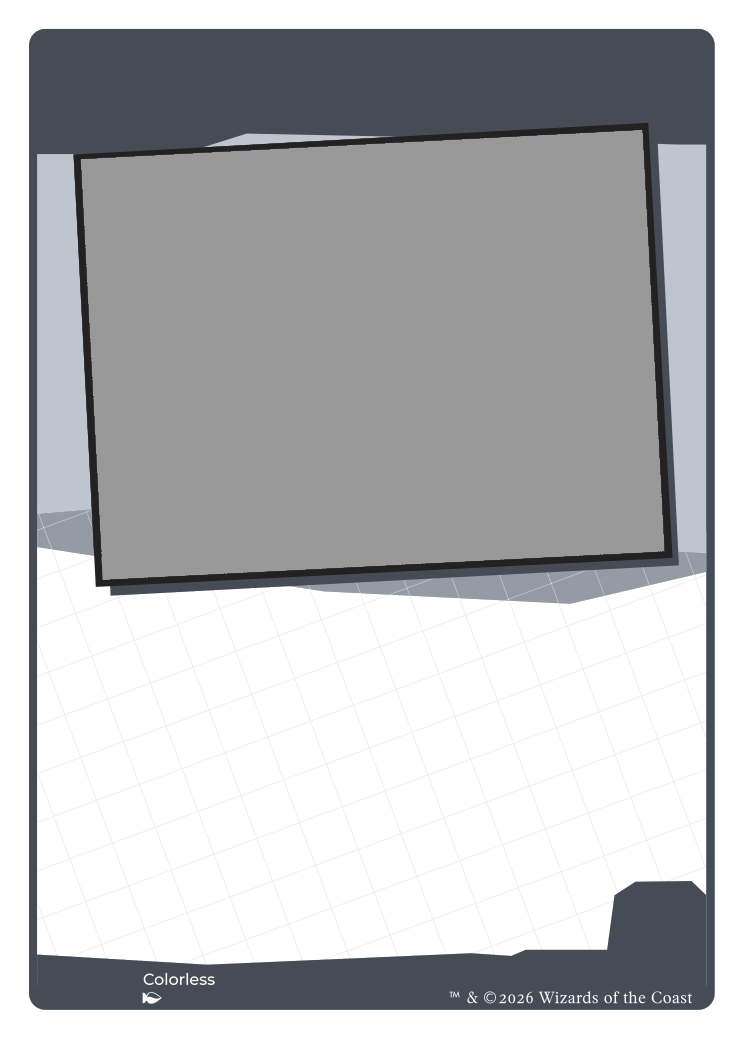
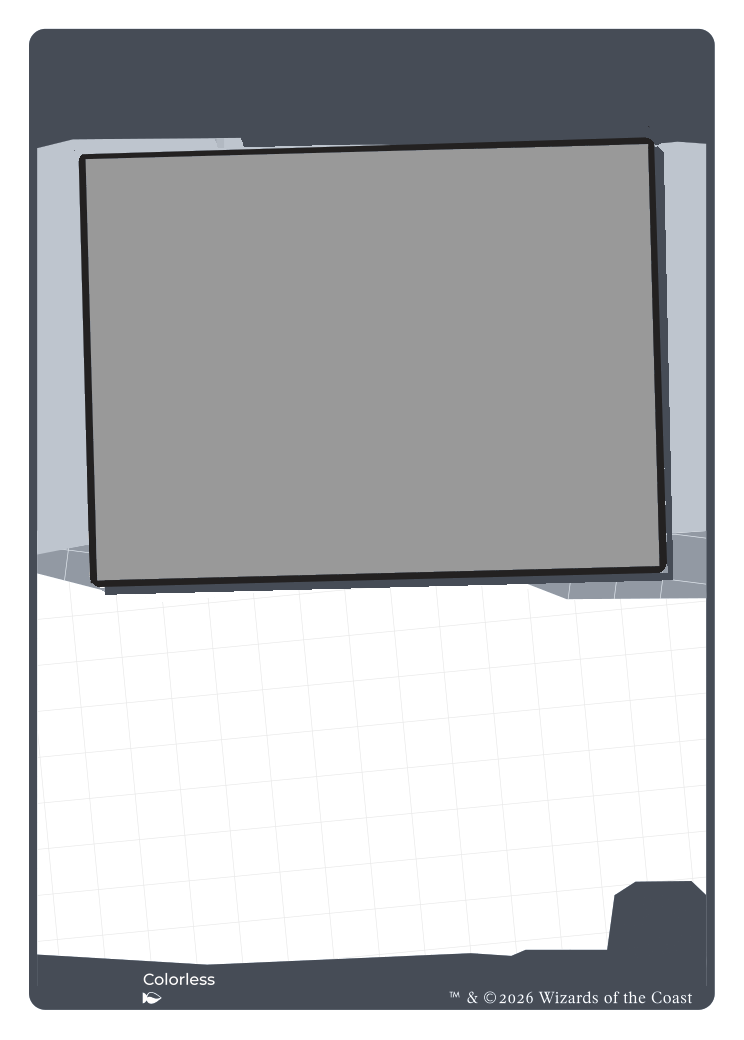
Colorless frame: mix parts of the green, red and blue frames
Instead of the white frame in gray, the colorless frame takes the art box with
its tilt and shadow from green, the shapes behind the art and the text box edge
from red, and the grid from blue, all recolored to the dark slate. The
colorless art box uses green's mask and position. The group noted that every
frame has its own tilt, shapes and grid.

Claude-Session: https://claude.ai/code/session_01AKUzD9vf33tyYiXxTkypoa

Changed region(s): [[0.0309, 0.3385, 0.9583, 0.5846], [0.0618, 0.0923, 0.8965, 0.3077]]

diff --git a/mse/tools/make_colorless_frame.py b/mse/tools/make_colorless_frame.py
@@ -1,63 +1,150 @@
 #!/usr/bin/env python3
-"""Make the colorless frame (sliced/base-c.png) from the white frame.
+"""Make the colorless frame (sliced/base-c.png) by mixing parts of the five colored frames.
 
-The white frame is a warm mid gray. The colorless frame is the same artwork recolored to a darker slate
-(frame color RGB 70, 76, 86), so it sits between white (a light gray) and black (a near-black purple) and does
-not read as either, with the "White" word replaced by "Colorless". Because the geometry is the white frame's,
-colorless cards use white's art opening and art mask.
+Every colored frame has its own art tilt, its own shapes behind the art, and its own grid in the text box, so the
+colorless frame is not just the white frame in gray. It borrows one part from each of three frames and recolors
+them to a dark slate (frame color RGB 70, 76, 86, between the light gray of white and the near-black of black):
+
+    art box, its border and drop shadow:   green   (a strong tilt)
+    shapes behind the art, text box edge:  red     (the pale wings and diagonal pieces)
+    grid in the text box:                  blue
+
+Change ART_FROM, SHAPES_FROM and GRID_FROM below to try another mix. The art box of the colorless frame is the one
+of the frame it takes the art box from, so build_assets.py uses that frame's art mask and position for colorless cards.
+The word "White" is replaced by "Colorless", set in Montserrat as a stand-in for the Gilroy of the original words.
 
     python3 mse/tools/make_colorless_frame.py
 
-Needs Pillow and the Montserrat font (a stand-in for Gilroy, which the original words use). The result is a source
-image like the other slices, so build_assets.py picks it up with the rest.
+Needs Pillow, numpy, scipy and the Montserrat font. The result is a source image like the other slices.
 """
 import os
 
+import numpy as np
 from PIL import Image, ImageDraw, ImageFont
+from scipy import ndimage
 
 HERE = os.path.dirname(os.path.abspath(__file__))
 ROOT = os.path.dirname(os.path.dirname(HERE))
 SLICED = os.path.join(ROOT, "sliced")
 
-SLATE = (70, 76, 86)              # replaces the frame gray (149, 146, 135)
-FRAME = (149, 146, 135)
-LIGHT = (190, 197, 206)           # replaces the light cream (227, 228, 212) that shows around the art
-CREAM = (227, 228, 212)
-BORDER = (35, 33, 33)             # the dark line around the art, kept as it is
-WORD_BOX = (141, 971, 196, 987)   # where the word "White" is, clear of the brush icon below it
-WORD_LEFT, WORD_BASELINE, CAP_HEIGHT = 143, 985, 11   # the "W" starts at x 143, its letters end at row 984
+ART_FROM, SHAPES_FROM, GRID_FROM = "g", "r", "u"
+
+# per frame: the frame color, the darker tint and the main tint of the shapes behind the art
+PALETTE = {
+    "w": ((149, 146, 135), (200, 199, 189), (227, 228, 212)),
+    "u": ((0, 143, 210), (131, 203, 213), (169, 223, 235)),
+    "b": ((19, 1, 38), (168, 169, 172), (194, 196, 198)),
+    "r": ((205, 60, 54), (232, 170, 164), (240, 202, 197)),
+    "g": ((1, 146, 69), (160, 210, 189), (186, 220, 205)),
+}
+WHITE, BORDER, GRAY = (255, 255, 255), (35, 33, 33), (153, 153, 153)
+SLATE, SLATE_DARK_TINT, SLATE_TINT = (70, 76, 86), (146, 153, 163), (190, 197, 206)
+TARGET = [SLATE, SLATE_DARK_TINT, SLATE_TINT, WHITE]
+
+WORD_BOX = (141, 971, 196, 987)    # where the color word is, clear of the brush icon below it
+WORD_LEFT, WORD_BASELINE, CAP_HEIGHT = 143, 985, 11
 WORD_COLOR = (255, 253, 252)
 FONTS = ["/usr/share/fonts/truetype/montserrat/Montserrat-Medium.ttf",
          "/usr/share/fonts/truetype/montserrat/Montserrat-Regular.ttf"]
 
 
-def lum(p):
-    return 0.299 * p[0] + 0.587 * p[1] + 0.114 * p[2]
+def disk(r):
+    y, x = np.ogrid[-r:r + 1, -r:r + 1]
+    return (x * x + y * y) <= r * r
 
 
-def lerp(a, b, t):
-    return tuple(round(a[i] + (b[i] - a[i]) * t) for i in range(3))
+def load(c):
+    return np.asarray(Image.open(os.path.join(SLICED, "base-%s.png" % c)).convert("RGBA")).astype(float)
 
 
-def recolor(p):
-    """Warm gray pixels (the frame and its anti-aliased edges) become slate; neutral pixels are kept."""
-    if p[0] - p[2] < 3:
-        return p                       # white, the art placeholder gray, the border line, text: neutral
-    y = lum(p)
-    y_frame, y_cream = lum(FRAME), lum(CREAM)
-    if y <= y_frame:
-        return lerp(BORDER, SLATE, max(0.0, (y - lum(BORDER)) / (y_frame - lum(BORDER))))
-    if y <= y_cream:
-        return lerp(SLATE, LIGHT, (y - y_frame) / (y_cream - y_frame))
-    return lerp(LIGHT, (255, 255, 255), min(1.0, (y - y_cream) / (255 - y_cream)))
+def along(rgb, pts):
+    """For every pixel: where it falls along the polyline pts (0 to len-1) and how far it is from it."""
+    best = np.full(rgb.shape[:2], 1e9)
+    pos = np.zeros(rgb.shape[:2])
+    for i in range(len(pts) - 1):
+        a, b = np.array(pts[i], float), np.array(pts[i + 1], float)
+        d = b - a
+        t = np.clip(((rgb - a) @ d) / (d @ d), 0, 1)
+        dist = np.linalg.norm(rgb - (a + t[..., None] * d), axis=-1)
+        closer = dist < best
+        best = np.where(closer, dist, best)
+        pos = np.where(closer, i + t, pos)
+    return pos, best
+
+
+def point_at(pos, pts):
+    pts = np.array(pts, float)
+    i = np.clip(np.floor(pos).astype(int), 0, len(pts) - 2)
+    t = (pos - i)[..., None]
+    return pts[i] * (1 - t) + pts[i + 1] * t
+
+
+def recolor(c):
+    """The frame in slate: frame color, tints and their anti-aliased edges are mapped onto the slate tints.
+    The art placeholder gray, the border and white are kept."""
+    frame, dark, light = PALETTE[c]
+    rgb = load(c)[..., :3]
+    pos, dist = along(rgb, [frame, dark, light, WHITE])
+    out = rgb.copy()
+    keep = (rgb == GRAY).all(axis=-1)
+    m = (dist < 14) & ~keep
+    out[m] = point_at(pos, TARGET)[m]
+    # the anti-aliased edge of the dark border against the frame color and against each tint
+    done = m | keep
+    for src, dst in ((frame, SLATE), (dark, SLATE_DARK_TINT), (light, SLATE_TINT)):
+        pos2, dist2 = along(rgb, [BORDER, src])
+        m2 = (dist2 < 18) & ~done
+        out[m2] = point_at(pos2, [BORDER, dst])[m2]
+        done |= m2
+    return out, pos, dist
+
+
+def assembly(c):
+    """The art opening, its border and its drop shadow (the frame-colored sliver down and to the right)."""
+    rgb = load(c)[..., :3]
+    opening = ndimage.binary_opening((rgb == GRAY).all(axis=-1), structure=disk(2))
+    core = ndimage.binary_dilation(opening, structure=disk(8))
+    is_frame = np.abs(rgb - np.array(PALETTE[c][0])).sum(axis=-1) < 20
+    swept = np.zeros_like(core)
+    for k in range(1, 12):
+        swept |= np.roll(np.roll(core, k, 0), k, 1)
+    return core | (swept & is_frame)
+
+
+def mix():
+    art, art_pos, art_dist = recolor(ART_FROM)
+    shapes, shapes_pos, shapes_dist = recolor(SHAPES_FROM)
+    alpha = load(SHAPES_FROM)[..., 3]
+    h, w = alpha.shape
+    rows = np.arange(h)[:, None] * np.ones((1, w))
+    gone = ndimage.binary_dilation(assembly(SHAPES_FROM), structure=disk(3))
+    mine = assembly(ART_FROM)
+    # the shapes frame without its own art box: those pixels are filled from the nearest frame or tint pixel
+    background = (shapes_dist < 14) & (shapes_pos < 2.6) & ~gone
+    idx = ndimage.distance_transform_edt(~background, return_distances=False, return_indices=True)
+    out = shapes.copy()
+    out[gone] = shapes[idx[0], idx[1]][gone]
+    out[mine] = art[mine]                                # the art box of the other frame on top
+    # the grid: inside the white text box of the shapes frame, drawn as in the grid frame
+    grid = load(GRID_FROM)[..., :3]
+    base = load(SHAPES_FROM)[..., :3]
+    lum = lambda a: a @ np.array([.299, .587, .114])
+    inside = (lum(base) >= 205) & (np.abs(base[..., 0] - base[..., 2]) < 6) & (rows >= 520) & ~mine
+    light = (lum(grid) >= 205) & (np.abs(grid[..., 0] - grid[..., 2]) < 6)
+    out[inside & light] = grid[inside & light]
+    out[inside & ~light] = 255
+    # a few anti-aliased edge pixels of the other frames' colors are left: make them the neutral slate
+    odd = (out[..., 1] > out[..., 2] + 4) | (out[..., 0] > out[..., 2] + 4)
+    v = lum(out)
+    out[odd] = np.stack([v - 6, v, v + 6], axis=-1)[odd]
+    return Image.fromarray(np.dstack([out, alpha]).round().clip(0, 255).astype(np.uint8), "RGBA")
 
 
 def word_image(text):
     """The word as a white image with transparency, drawn at 8x and scaled down so the edges are smooth."""
     path = next(f for f in FONTS if os.path.exists(f))
     scale = 8
-    size = round(CAP_HEIGHT / 0.7)     # Montserrat's capital letters are 0.7 of the font size tall
-    font = ImageFont.truetype(path, size * scale)
+    font = ImageFont.truetype(path, round(CAP_HEIGHT / 0.7) * scale)   # capitals are 0.7 of the font size tall
     box = font.getbbox(text, anchor="ls")
     w, h = box[2] - box[0], -box[1] + font.getbbox("g", anchor="ls")[3]
     big = Image.new("L", (w + 8 * scale, h + 8 * scale), 0)
@@ -65,24 +152,18 @@ def word_image(text):
     small = big.resize((big.width // scale, big.height // scale), Image.LANCZOS)
     out = Image.new("RGBA", small.size, WORD_COLOR + (0,))
     out.putalpha(small)
-    return out, 4, -box[1] // scale + 4      # the image, and where the baseline's left end is inside it
+    return out, 4, -box[1] // scale + 4
 
 
 def main():
-    base = Image.open(os.path.join(SLICED, "base-w.png")).convert("RGBA")
-    px = base.load()
-    for y in range(base.height):
-        for x in range(base.width):
-            r, g, b, a = px[x, y]
-            if a:
-                px[x, y] = recolor((r, g, b)) + (a,)
-    x0, y0, x1, y1 = WORD_BOX
-    ImageDraw.Draw(base).rectangle((x0, y0, x1, y1), fill=SLATE + (255,))
+    base = mix()
+    ImageDraw.Draw(base).rectangle(WORD_BOX, fill=SLATE + (255,))
     word, bx, by = word_image("Colorless")
     base.alpha_composite(word, (WORD_LEFT - bx, WORD_BASELINE - by))
     out = os.path.join(SLICED, "base-c.png")
     base.save(out)
-    print("wrote", os.path.relpath(out, ROOT))
+    print("wrote", os.path.relpath(out, ROOT), "(art box from %s, shapes from %s, grid from %s)"
+          % (ART_FROM, SHAPES_FROM, GRID_FROM))
 
 
 if __name__ == "__main__":

diff --git a/mse/tools/build_assets.py b/mse/tools/build_assets.py
@@ -272,8 +272,9 @@ def main():
         cy = sum(i // w * v for i, v in enumerate(data)) / total
         openings[color] = {"mask": mask, "bbox": bbox, "cx": cx, "cy": cy}
         print("art opening for", color, bbox, "centre (%.1f, %.1f)" % (cx, cy), "border colour", dark)
-    # The colorless frame (make_colorless_frame.py) is the white frame recolored, so it has white's art opening.
-    openings["colorless"] = openings["white"]
+    # The colorless frame (make_colorless_frame.py) mixes parts of the colored frames. Its art box is the one of
+    # the frame it takes the art box from (green), so it uses that opening, mask and position.
+    openings["colorless"] = openings["green"]
     ART_W = max(o["bbox"][2] - o["bbox"][0] for o in openings.values())
     ART_H = max(o["bbox"][3] - o["bbox"][1] for o in openings.values())
     layout["art"] = {"width": ART_W, "height": ART_H, "boxes": {}}

diff --git a/mse/README.md b/mse/README.md
@@ -42,7 +42,7 @@ Each card has these fields:
 | Field | What it does |
 |---|---|
 | name | Card name (Beleren Small Caps Bold, shrinks if it is long). |
-| frame color | White, blue, black, red, green or colorless frame. The colorless frame is a darker slate version of the white frame (frame color RGB 70, 76, 86), made by `tools/make_colorless_frame.py`; it uses white's art opening and mask. |
+| frame color | White, blue, black, red, green or colorless frame. The colorless frame is a dark slate (frame color RGB 70, 76, 86) that mixes parts of the colored frames, made by `tools/make_colorless_frame.py`: the art box and its shadow (and so the art tilt, mask and position) come from the green frame, the shapes behind the art and the text box edge from red, and the grid from blue. |
 | top die | The value die at the top right: 0 shows a numeral, 1 to 6 show pips. **7 to 12 show two dice** (a 6 and the rest), using the same pair artwork as the lower-left dice, right-aligned to where the single die ends. The reminder icon and the end of the name box move left by the extra width, so a long name shrinks sooner. The pair covers a little more of the top right of the art (about 37 px of height over the art opening), and the die is scaled by the same box as the lower dice (194 x 117). |
 | top die color | White or black die (for two dice too). On the printed cards the top and lower dice are always the same color, and the color follows the kind of value: **black** for a value that applies while in play (Determination, Triumph, Serenity), **white** for one that changes after playing (Altruism, Cheer, Infatuation) and for ordinary cards with no lower die (almost all of them). |
 | reminder icon | Ticks on the "!" icon next to the top die. |
@@ -74,7 +74,7 @@ I could not run MSE, so these are the likeliest places to need a small fix:
 
 ## Not included
 
-- The colorless frame is made from the white frame by a script (`tools/make_colorless_frame.py`) and has no Inkscape template; its "Colorless" word is set in Montserrat as a stand-in for the Gilroy used on the other colors.
+- The colorless frame is made by a script (`tools/make_colorless_frame.py`, which needs numpy and scipy) from parts of the green, red and blue frames, and has no Inkscape template; its "Colorless" word is set in Montserrat as a stand-in for the Gilroy used on the other colors. Change `ART_FROM`, `SHAPES_FROM` and `GRID_FROM` in the script to try another mix.
 - No `themed/steampunk` variant.
 - Printing and bleed are not set up. The card size is 744 x 1040 pixels at 300 dpi. The Inkscape template and the slices are 744 x 1039; the frame images here have one extra row at the bottom (a copy of the white margin) so both dimensions are multiples of 4, as the Unity client needs. Nothing else moves, because everything is positioned from the top left.
 

diff --git a/mse/INSTRUCTIONS.md b/mse/INSTRUCTIONS.md
@@ -33,7 +33,7 @@ Click a card in the list, then edit its fields in the panel next to the card. Cl
 | Field | What it does |
 |---|---|
 | name | Card name. It shrinks if it is long. |
-| frame color | White, blue, black, red, green or colorless (a darker slate frame). |
+| frame color | White, blue, black, red, green or colorless (a dark slate frame with its own mix of shapes, art tilt and grid). |
 | top die | The value at the top right. 0 shows a numeral, 1 to 6 show pips on one die, and **7 to 12 show two dice** (a 6 plus the rest); two dice push the name and the "!" icon to the left. |
 | top die color | White or black. Use **black** for a value that applies while in play (for example Determination), and **white** for a value that changes after playing and for ordinary cards. |
 | reminder icon | Ticks on the "!" icon next to the top die. |
